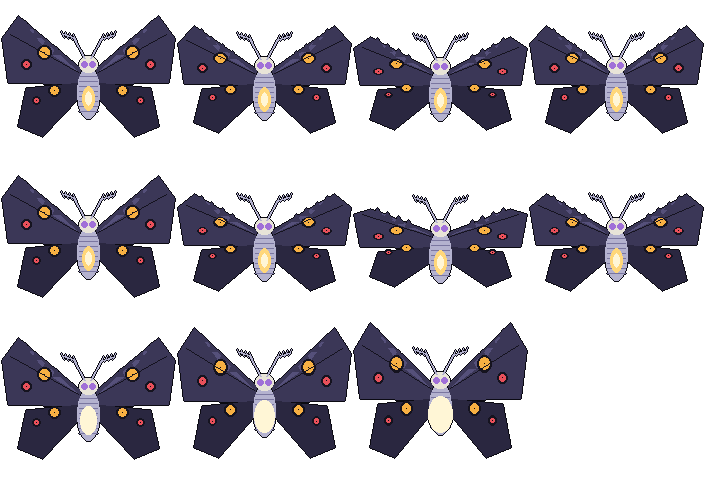
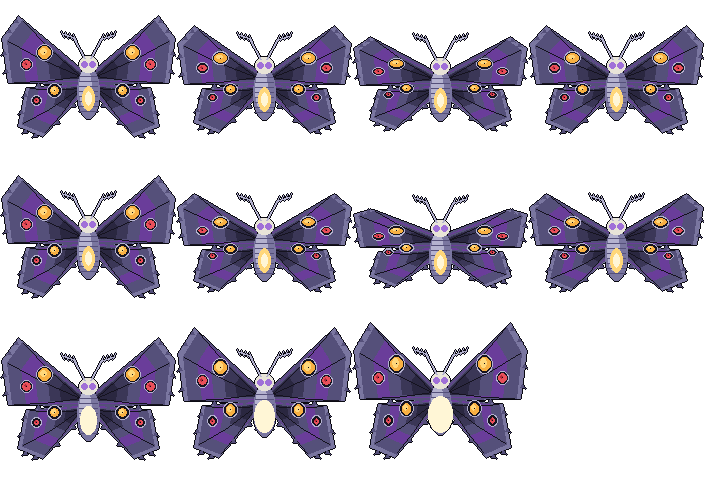
Matron arena fixed: no dither stripes (stepped blends instead of mid-strength ordered dither), dim low-contrast silk floor, shaded stalagmites, cocoons and silk webs, shaded Matron wings (bands, veins, tattered edge, glowing eye spots); pixel-accurate tall-prop cover and fade; near-white limit in th
Claude-Session: https://claude.ai/code/session_01YABBJVPWvaqtn34m5VQVCp

Changed region(s): [[0.0, 0.0312, 1.0, 0.2812], [0.0, 0.375, 1.0, 0.625], [0.0, 0.6562, 0.75, 0.9688]]

diff --git a/art/enemies.py b/art/enemies.py
@@ -271,6 +271,41 @@ def crawler(pose: str, i: int) -> Spr:
 
 
 # ------------------------------------------------------------------ the Moth Matron (Act 1 boss)
+WING_BANDS = (("dusk3", 1.0), ("violet", 0.8), ("dusk3", 0.62), ("dusk2", 0.44), ("dusk1", 0.28))
+
+
+def _shrink(pts: list, root: tuple, t: float) -> list:
+    return [(root[0] + (x - root[0]) * t, root[1] + (y - root[1]) * t) for x, y in pts]
+
+
+def _matron_wing(s: Spr, cx: float, cy: float, side: int, k: float) -> None:
+    """One side of the Matron: forewing and hindwing shaded from a dusty pale edge in to a dark root (bands, not a
+    flat fill), veins fanning from the root, a soft tattered edge, and false eyes that glow."""
+    up = [(cx + side * 8, cy - 10), (cx + side * 70, cy - 10 - 52 * k), (cx + side * 86, cy - 18 - 22 * k),
+          (cx + side * 80, cy + 4), (cx + side * 10, cy + 6)]
+    low = [(cx + side * 8, cy + 4), (cx + side * 62, cy + 10), (cx + side * 70, cy + 22 + 26 * k),
+           (cx + side * 46, cy + 32 + 26 * k), (cx + side * 10, cy + 20)]
+    for wing, root in ((low, (cx + side * 8, cy + 10)), (up, (cx + side * 8, cy - 2))):
+        s.poly(wing, "mist")                                               # the dusty outer edge
+        for c, t in WING_BANDS:
+            s.poly(_shrink(wing, root, t * 0.94), c)
+        for tip in wing[1:4]:                                              # veins from the root to the edge
+            s.line([root, ((root[0] + tip[0]) / 2, (root[1] + tip[1]) / 2 + 2), (tip[0] * 0.92 + root[0] * 0.08, tip[1] * 0.92 + root[1] * 0.08)], "ink")
+        for j in range(6):                                                 # a soft, tattered edge
+            a, b = wing[1 + j % 3], wing[2 + j % 3]
+            t = (j + 1) / 7.0
+            ex, ey = a[0] + (b[0] - a[0]) * t, a[1] + (b[1] - a[1]) * t
+            s.poly([(ex, ey), (ex + side * 3, ey + 4), (ex - side * 2, ey + 3)], "dusk3")
+    for j, (ox, oy, r) in enumerate(((44, -26, 7), (62, -14, 5), (34, 12, 6), (52, 22, 4))):   # false eyes
+        ex, ey = cx + side * ox, cy + oy * k
+        ry = r * max(k, 0.6)
+        s.ellipse(ex, ey, r + 1, ry + 1, "pale")
+        s.ellipse(ex, ey, r, ry, "ink")
+        s.ellipse(ex, ey, r - 1.5, ry - 1.5, "amber" if j % 2 == 0 else "rose", glow=True)
+        s.ellipse(ex - 1, ey - 1, max(1.0, r - 4), max(1.0, ry - 4), "gold" if j % 2 == 0 else "blood", glow=True)
+        s.px(ex, ey, "void")
+
+
 def matron(pose: str, i: int) -> Spr:
     """The Moth Matron: a great moth of tattered silk, a ring of false eyes on her wings, her belly full of stolen
     light. The sun's fear of being eaten, given wings."""
@@ -278,27 +313,11 @@ def matron(pose: str, i: int) -> Spr:
     k = pick({"idle": (1.0, 0.82, 0.64, 0.82), "move": (1.0, 0.7, 0.45, 0.7), "attack": (1.0, 1.12, 1.18)}, pose, i)
     cx, cy = 88, 78 + pick({"idle": (0, 1, 2, 1), "move": (0, 2, 4, 2), "attack": (2, -2, -4)}, pose, i)
     for side in (-1, 1):
-        up = [(cx + side * 8, cy - 10), (cx + side * 70, cy - 10 - 52 * k), (cx + side * 86, cy - 18 - 22 * k),
-              (cx + side * 80, cy + 4), (cx + side * 10, cy + 6)]
-        low = [(cx + side * 8, cy + 4), (cx + side * 62, cy + 10), (cx + side * 70, cy + 22 + 26 * k),
-               (cx + side * 46, cy + 32 + 26 * k), (cx + side * 10, cy + 20)]
-        s.poly(up, "dusk2")
-        s.poly(low, "dusk1")
-        s.poly([(cx + side * 12, cy - 8), (cx + side * 64, cy - 12 - 44 * k), (cx + side * 40, cy - 10 - 16 * k)], "dusk3")
-        a, b = up[0], up[1]
-        for j in range(4):                                                     # tatters hanging off the wing edge
-            t = 0.3 + j * 0.17
-            ex, ey = a[0] + (b[0] - a[0]) * t, a[1] + (b[1] - a[1]) * t
-            s.poly([(ex, ey + 2), (ex + side * 5, ey - 5), (ex + side * 9, ey + 2)], "dusk2")
-        for j, (ox, oy, r) in enumerate(((44, -26, 7), (62, -14, 5), (34, 12, 6), (52, 22, 4))):   # false eyes
-            ex, ey = cx + side * ox, cy + oy * k
-            s.ellipse(ex, ey, r, r * max(k, 0.6), "ink")
-            s.ellipse(ex, ey, r - 2, (r - 2) * max(k, 0.6), "amber" if j % 2 == 0 else "rose", glow=True)
-            s.px(ex, ey, "void")
-        s.line([(cx + side * 10, cy - 6), (cx + side * 78, cy - 14 - 30 * k)], "ink")
-    s.ellipse(cx, cy + 14, 11, 26, "pale")                                      # body
+        _matron_wing(s, cx, cy, side, k)
+    s.ellipse(cx, cy + 14, 11, 26, "mist")                                      # body
+    s.ellipse(cx - 3, cy + 10, 6, 20, "pale")
     for y in range(cy - 2, cy + 38, 5):
-        s.line([(cx - 9, y), (cx + 9, y)], "mist")
+        s.line([(cx - 9, y), (cx + 9, y)], "dusk3")
     s.ellipse(cx, cy + 20, 6, 12, "gold", glow=True)                            # belly of stolen light
     s.ellipse(cx, cy + 20, 3, 7, "sun", glow=True)
     s.ellipse(cx, cy - 14, 9, 8, "bone")
@@ -311,7 +330,7 @@ def matron(pose: str, i: int) -> Spr:
     if pose == "attack":
         s.ellipse(cx, cy + 20, 8 + i * 2, 14 + i * 2, "sun", glow=True)
     s.outline()
-    s.recolor_edge(0, -1, "mist", only={"dusk2", "dusk3"})
+    s.recolor_edge(0, -1, "pale", only={"mist", "dusk3"})
     return s
 
 

diff --git a/art/props_act1.py b/art/props_act1.py
@@ -122,42 +122,54 @@ def lamp_shrine() -> Spr:
 
 # ------------------------------------------------------------------ Moth Hollow
 def stalagmite(w: int, h: int, seed: int) -> Spr:
+    """A cave stalagmite: a lumpy cone, lit on its left from above (mid tones, not black), wet bands near the top."""
     rnd = random.Random(seed)
     s = Spr(w, h)
-    pts = [(2, h - 2), (w * 0.3, h * 0.4), (w * 0.45, 3), (w * 0.6, h * 0.35), (w - 2, h - 2)]
-    dither_fill(s, pts, "stone_dk", "stone", 0.18, seed)
-    s.poly([(w * 0.3, h * 0.4), (w * 0.45, 3), (w * 0.5, h * 0.45), (w * 0.4, h - 2), (2, h - 2)], "ink")
-    for _ in range(3):
-        y = rnd.uniform(h * 0.4, h * 0.9)
-        s.line([(w * 0.35, y), (w * 0.62, y + 2)], "stone_lt")
-    return _finish(s, "mist", {"stone"})
+    cx = w * 0.48 + rnd.uniform(-1, 1)
+    lumps = [(cx - w * 0.46, h - 2), (cx - w * 0.3, h * 0.62), (cx - w * 0.2, h * 0.38), (cx - 2, 3), (cx + 2, 4),
+             (cx + w * 0.18, h * 0.42), (cx + w * 0.3, h * 0.66), (cx + w * 0.46, h - 2)]
+    s.poly(lumps, "stone")
+    s.poly([(cx + 1, 5), (cx + w * 0.18, h * 0.42), (cx + w * 0.3, h * 0.66), (cx + w * 0.46, h - 2), (cx + 2, h - 2)], "stone_dk")
+    s.poly([(cx - 1, 6), (cx - w * 0.12, h * 0.4), (cx - w * 0.2, h * 0.7), (cx - w * 0.08, h * 0.72)], "stone_lt")
+    for k in range(3):                                         # wet growth bands, following the cone
+        y = h * (0.3 + 0.18 * k) + rnd.uniform(-2, 2)
+        half = w * (0.12 + 0.11 * k)
+        s.line([(cx - half, y), (cx + half * 0.2, y + 1)], "dusk3")
+    s.rect(cx - w * 0.46, h - 4, cx + w * 0.46, h - 2, "stone_dk")
+    return _finish(s, "mist", {"stone", "stone_lt"})
 
 
 def cocoon_pod(seed: int) -> Spr:
-    """A moth cocoon on the cave floor: pale silk, something faintly lit inside."""
+    """A moth cocoon on the cave floor: wrapped silk with shadowed turns, something faintly lit inside."""
     rnd = random.Random(seed)
     s = Spr(30, 40)
-    s.ellipse(15, 22, 10, 16, "pale")
-    s.ellipse(17, 22, 6, 12, "mist")
-    for k in range(5):
-        y = 10 + k * 6
-        s.line([(6, y), (24, y + rnd.uniform(-2, 2))], "bone")
-    s.ellipse(15, 24, 3, 5, "amber", glow=True)
-    s.line([(15, 6), (14, 0)], "pale")
-    return _finish(s, "bone", {"pale"})
+    s.ellipse(15, 23, 10, 15, "dusk2")
+    s.ellipse(13, 21, 7, 12, "dusk3")
+    s.ellipse(11, 17, 3, 6, "mist")
+    s.ellipse(19, 27, 5, 9, "dusk1")
+    for k in range(6):                                         # the wrapping: curved turns, darker toward the right
+        y = 11 + k * 5 + rnd.uniform(-1, 1)
+        s.line([(7, y), (15, y + 2), (23, y)], "dusk1" if k % 2 else "dusk3")
+    s.ellipse(15, 25, 2.5, 4, "ember", glow=True)
+    s.px(15, 25, "gold", glow=True)
+    s.line([(15, 8), (14, 0)], "mist")
+    s.rect(7, 36, 23, 38, "night")
+    return _finish(s, "pale", {"dusk3"})
 
 
 def silk_web() -> Spr:
-    """Silk strung between two stones: the Matron's road markers."""
+    """Silk strung between two stones: the Matron's road markers. Thin sagging threads, not stripes."""
     s = Spr(56, 40)
-    s.ellipse(6, 32, 5, 6, "stone_dk")
-    s.ellipse(50, 30, 5, 7, "stone_dk")
-    for k in range(6):
-        s.line([(8, 28 - k * 3), (48, 26 - k * 2.5)], "pale")
-    for k in range(4):
-        x = 14 + k * 9
-        s.line([(x, 14), (x + 2, 30)], "mist")
-    return _finish(s, "bone", {"stone_dk"})
+    s.ellipse(6, 32, 5, 6, "stone")
+    s.ellipse(5, 31, 3, 4, "stone_lt")
+    s.ellipse(50, 30, 5, 7, "stone")
+    s.ellipse(49, 29, 3, 4, "stone_lt")
+    for k in range(4):                                         # threads sag between the stones
+        y0, y1 = 27 - k * 4, 25 - k * 3.5
+        s.line([(9, y0), (28, y0 + 3 + k * 0.5), (46, y1)], "mist" if k % 2 else "dusk3")
+    s.line([(20, 14), (22, 29)], "dusk3")
+    s.line([(34, 13), (35, 28)], "dusk3")
+    return _finish(s, "pale", {"stone"})
 
 
 def hedge(seed: int) -> Spr:

diff --git a/tools/check_brightness.py b/tools/check_brightness.py
@@ -14,18 +14,20 @@ PLAY = (0.0, 0.11, 1.0, 0.86)                    # the play area as fractions of
 NEAR_BLACK = 0.1
 AVG_RANGE = (0.20, 0.33)            # aim for the middle: a rich dusk, not a bright day
 BLACK_MAX = 0.25
+NEAR_WHITE = 0.92
+WHITE_MAX = 0.03                      # blown highlights: at most 3% of the play area near white
 ECLIPSE_MIN = 0.10
 PANELS = ("skill_tree", "passive", "inventory", "character", "loot_filter", "quest_log", "stash", "title",
           "eclipse_tree", "forge", "zone_overview")
 
 
-def measure(path: Path) -> tuple[float, float]:
+def measure(path: Path) -> tuple[float, float, float]:
     img = Image.open(path).convert("RGB")
     w, h = img.size
     box = (int(PLAY[0] * w), int(PLAY[1] * h), int(PLAY[2] * w), int(PLAY[3] * h))
     a = np.asarray(img.crop(box), dtype=np.float32) / 255.0
     luma = a[:, :, 0] * 0.2126 + a[:, :, 1] * 0.7152 + a[:, :, 2] * 0.0722
-    return float(luma.mean()), float((luma < NEAR_BLACK).mean())
+    return float(luma.mean()), float((luma < NEAR_BLACK).mean()), float((luma > NEAR_WHITE).mean())
 
 
 def main(folder: Path) -> int:
@@ -33,15 +35,18 @@ def main(folder: Path) -> int:
     for path in sorted(folder.glob("*_1920x1080.png")):
         if any(k in path.name for k in PANELS):
             continue
-        avg, black = measure(path)
+        avg, black, white = measure(path)
         if path.name.startswith("eclipse"):
             ok = avg >= ECLIPSE_MIN
         elif path.name.startswith("noon"):                       # a breath of daylight: bright on purpose
             ok = black <= BLACK_MAX
         else:
             ok = AVG_RANGE[0] <= avg <= AVG_RANGE[1] and black <= BLACK_MAX
+        blown = white > WHITE_MAX and not path.name.startswith("noon")
+        ok = ok and not blown
         bad += 0 if ok else 1
-        print(f"{'ok  ' if ok else 'DARK' if avg < AVG_RANGE[0] else 'OUT '} {path.name:44s} average {avg:5.1%}  near-black {black:5.1%}")
+        tag = "ok  " if ok else ("BLOWN" if blown else "DARK" if avg < AVG_RANGE[0] else "OUT ")
+        print(f"{tag:5s} {path.name:44s} average {avg:5.1%}  near-black {black:5.1%}  near-white {white:5.1%}")
     print("BRIGHTNESS PASS" if bad == 0 else f"BRIGHTNESS FAIL ({bad} shots outside the band)")
     return 1 if bad else 0
 

diff --git a/STYLE.md b/STYLE.md
@@ -29,7 +29,9 @@ sprite pixel must be in the palette (`tools/check_art.py`). UI uses palette name
 - Bright things bloom (2D HDR glow, threshold high); the UI is on higher canvas layers and never blooms.
 - Trees and tall props cast real shadows from the lantern (small LightOccluder2D footprints).
 - Enemies are always readable: outside the light they cool (`SHROUD_TINT`), they never go black.
-- Targets, checked by `tools/check_brightness.py SHOTS`: play-area average 22–45% (aim 25–30%), near-black under
+- Ground tones: no 50% ordered dither over large areas (it reads as a checkerboard or stripes once scaled); mid
+  blends are flat stepped tones, dither only speckles near the ends. Pale ground rolls off before white.
+- Targets, checked by `tools/check_brightness.py SHOTS` (also: under 3% of the play area near white): play-area average 22–45% (aim 25–30%), near-black under
   25%; Eclipse at least 10%. A Brightness control (Esc menu) scales the ambient.
 
 ## Sprites
